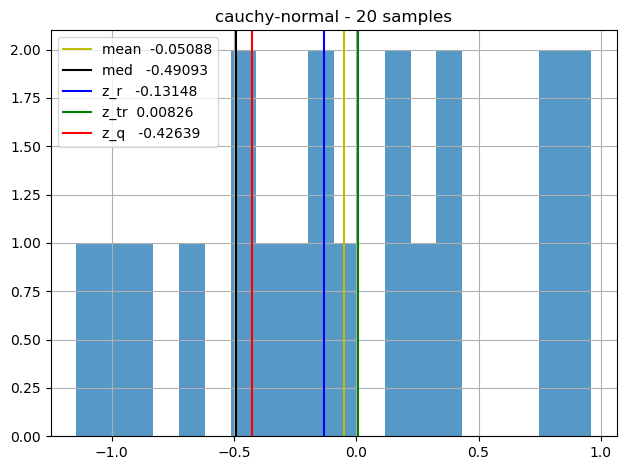
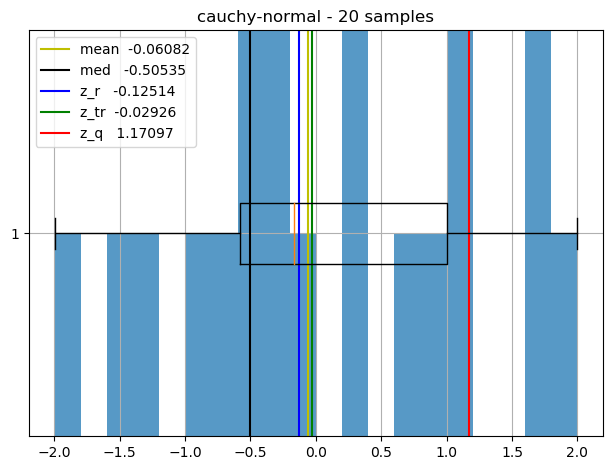
Added boxplot in first task

diff --git a/main.py b/main.py
@@ -45,7 +45,6 @@ for i in n:
             measures[4][:] = measures_5.out(j)
 
 
-
     Var = np.zeros((5, len(meas)), dtype=float)
     Var[0][:] = measures_1.calc_var()
     Var[1][:] = measures_2.calc_var()
@@ -77,6 +76,7 @@ for i in n:
         for k in range(len(meas)):
             plt.axvline(x=measures[j][k], label='{:<5} {:<5}'.format(meas[k], str('%.5f' % measures[j][k])), c=next(cycol))
         plt.legend()
+        plt.boxplot(sample[j][:], vert=False)
         plt.savefig('output/{}_{:d}.png'.format(names[j], i), bbox_inches='tight')
         plt.close()
 

diff --git a/measures of distribution shape.py b/measures of distribution shape.py
@@ -13,19 +13,17 @@ def kernel(x):
     return k
 
 
-step = 6/(100+1)
-x = np.arange(-3,3,step)
+n = 100
+step = 6/(n+1)
+x = np.arange(-3, 3, step)
 mu = mes.sample_mean(x)
 s = mes.sq_deviation(x)
-print(x)
-
-n = 100
 h = s/(n**0.4)
 
-f_k = mes.sum_of_bits(kernel(x))
+"f_k = mes.sum_of_bits(kernel(x))/n/h"
 f = np.exp(-(x**2)/2)/np.sqrt(2*np.pi)
 f_t = np.exp((-(x-mu)**2)/(2*(s**2)))/(s*np.sqrt(2*np.pi))
 
-plt.plot(x,f)
-plt.plot(x,f_t)
+plt.plot(x, f)
+plt.plot(x, f_t)
 plt.show()
